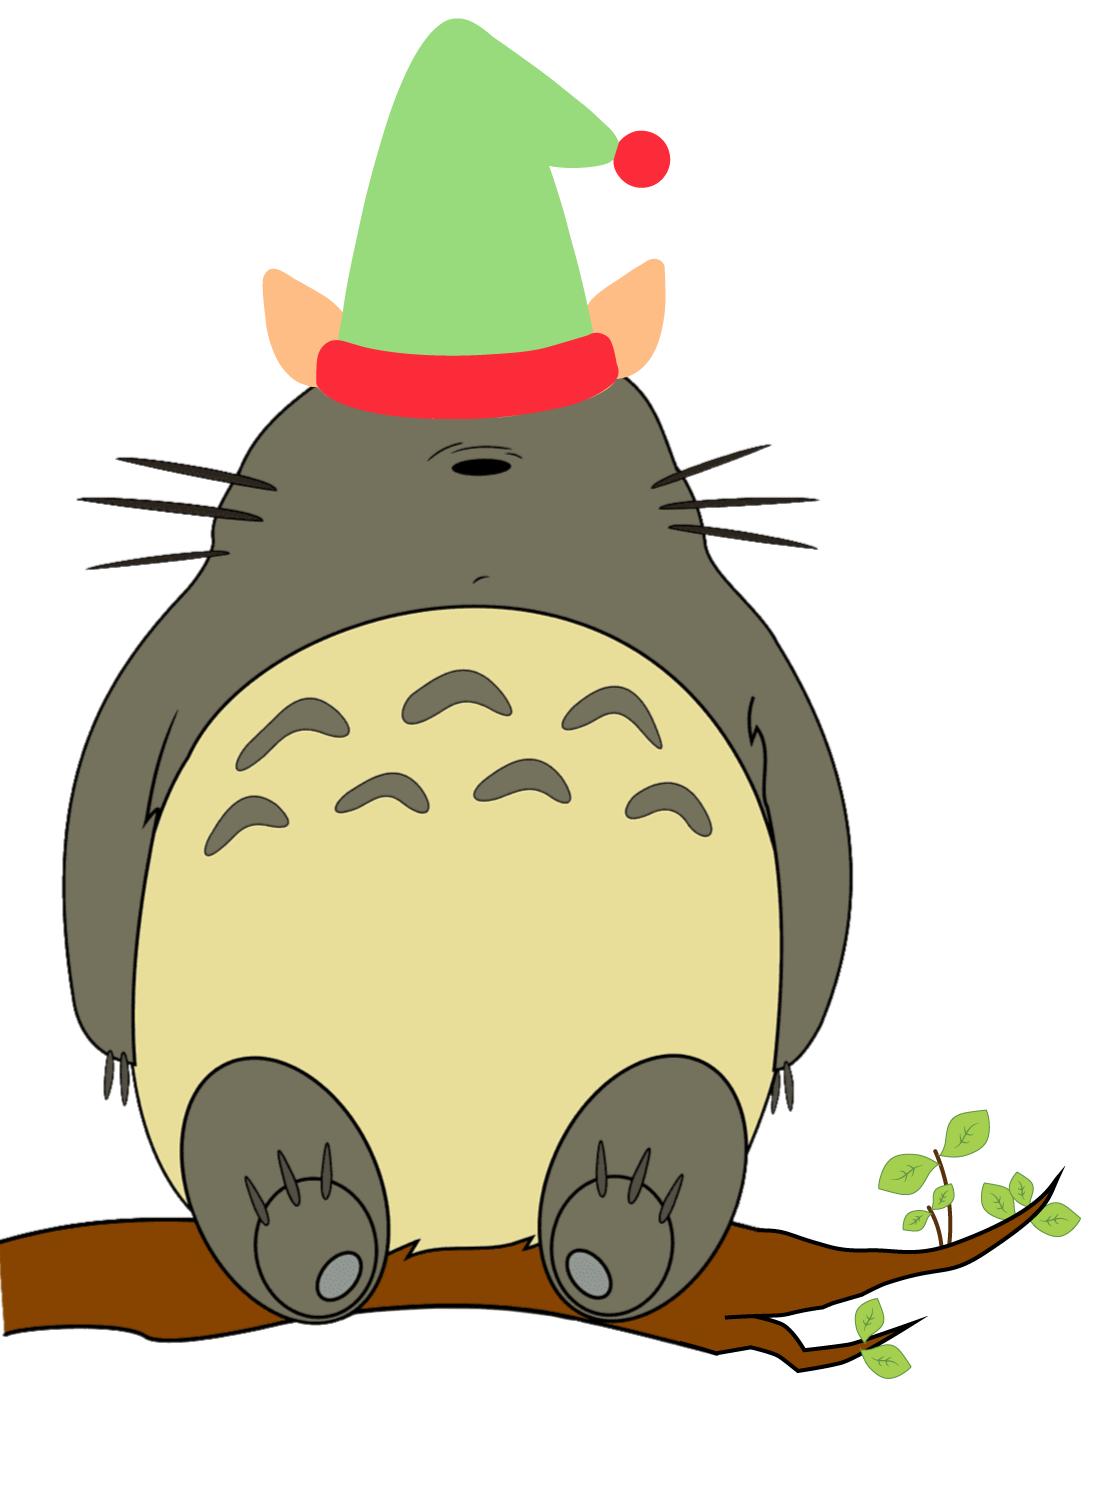
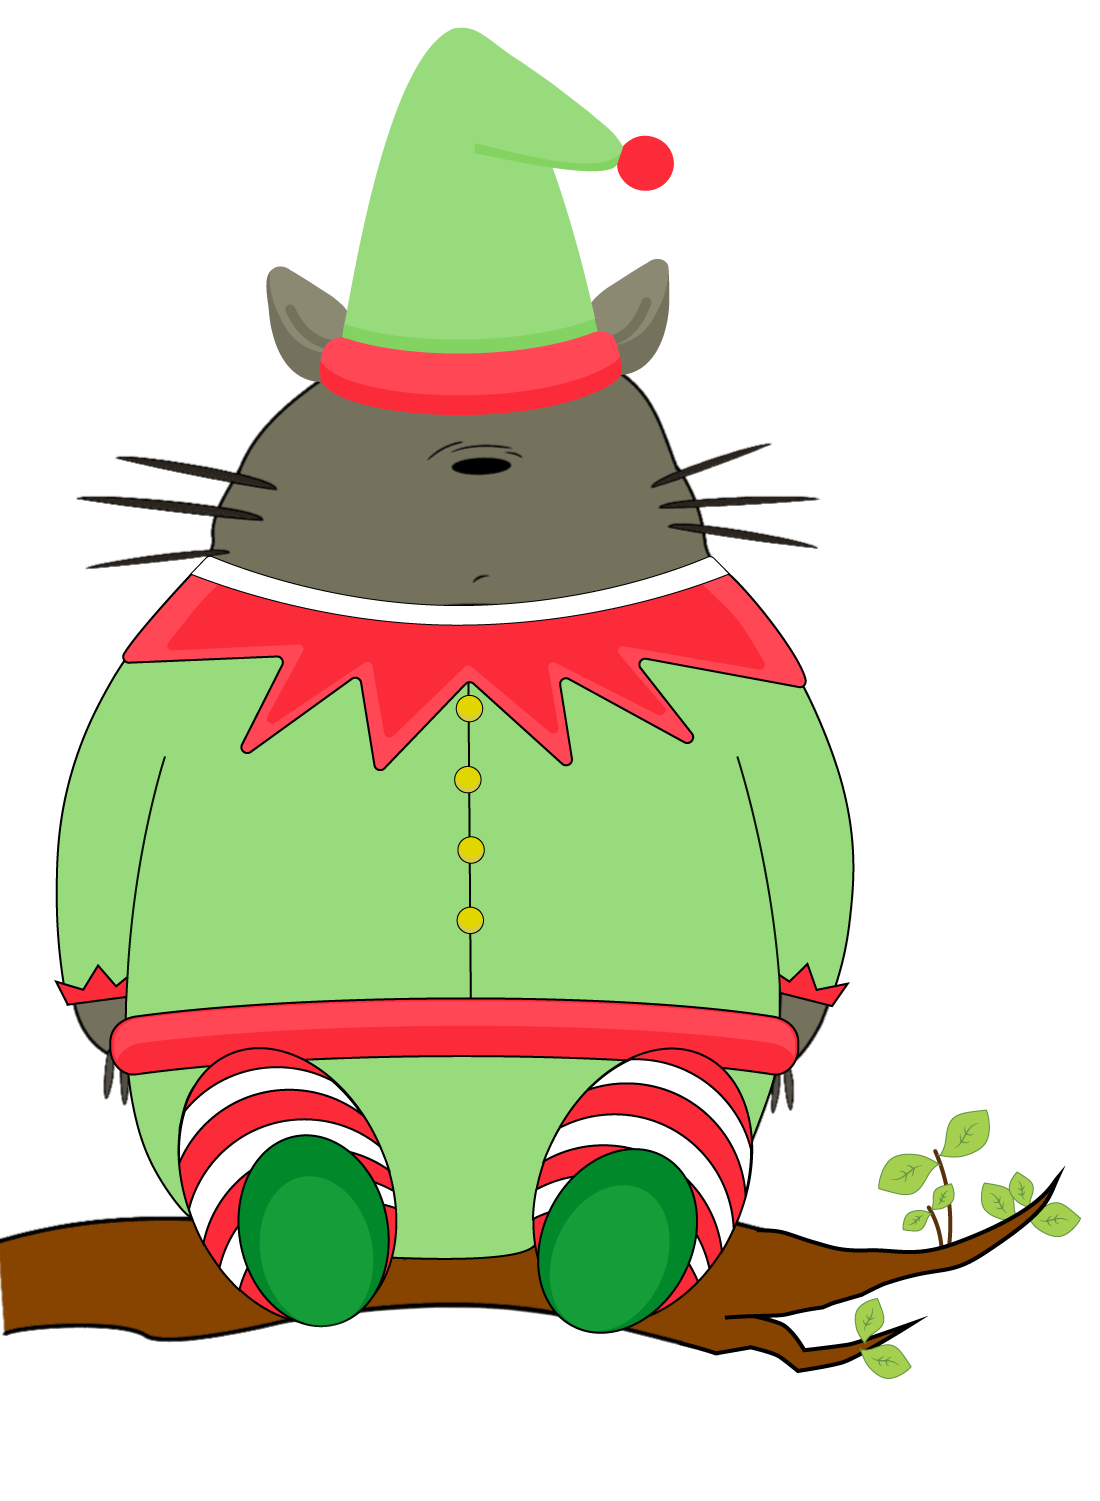
Natal parte 1

diff --git a/2023-10-29_21_30_script.js b/2023-10-29_21_30_script.js
@@ -24,8 +24,8 @@ var bg = document.querySelector('img.bg'),
     dialogs = []
     hour = 0,
     currentConfig = "",
-    happyImage = "images/new/2023-09-2023_totoro1-2.png",
-    defaultImage = "images/new/2023-09-2023_totoro1.png",
+    happyImage = "images/new/2023-11-29_totoro_noel2.png",
+    defaultImage = "images/new/2023-11-29_totoro_noel.png",
     rainHappyImage = "images/new/totoro_chuva_sorriso1.png",
     rainDefaultImage = "images/new/totoro_chuva1.png",
     firstImage = defaultImage,
